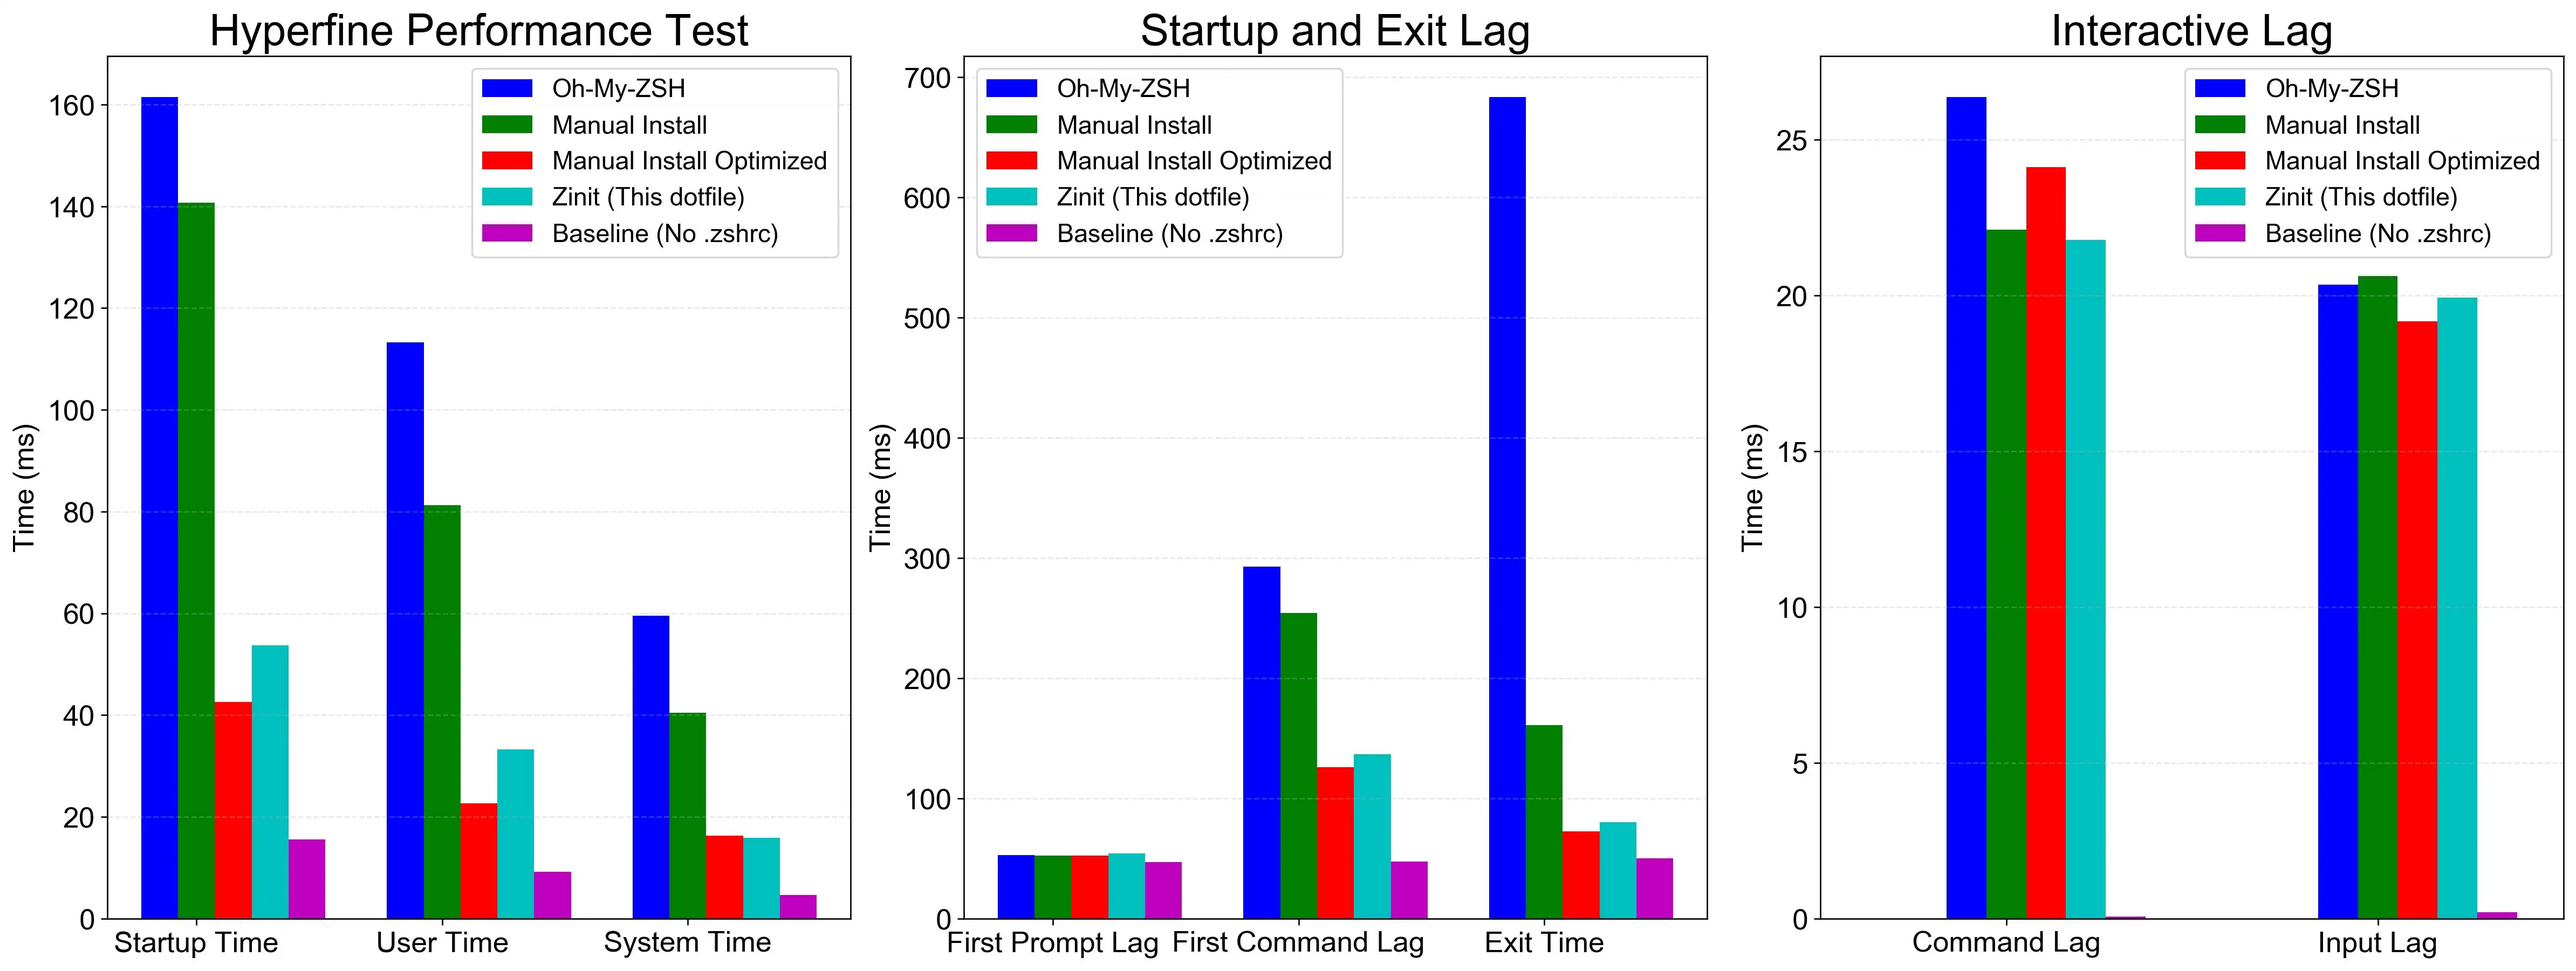
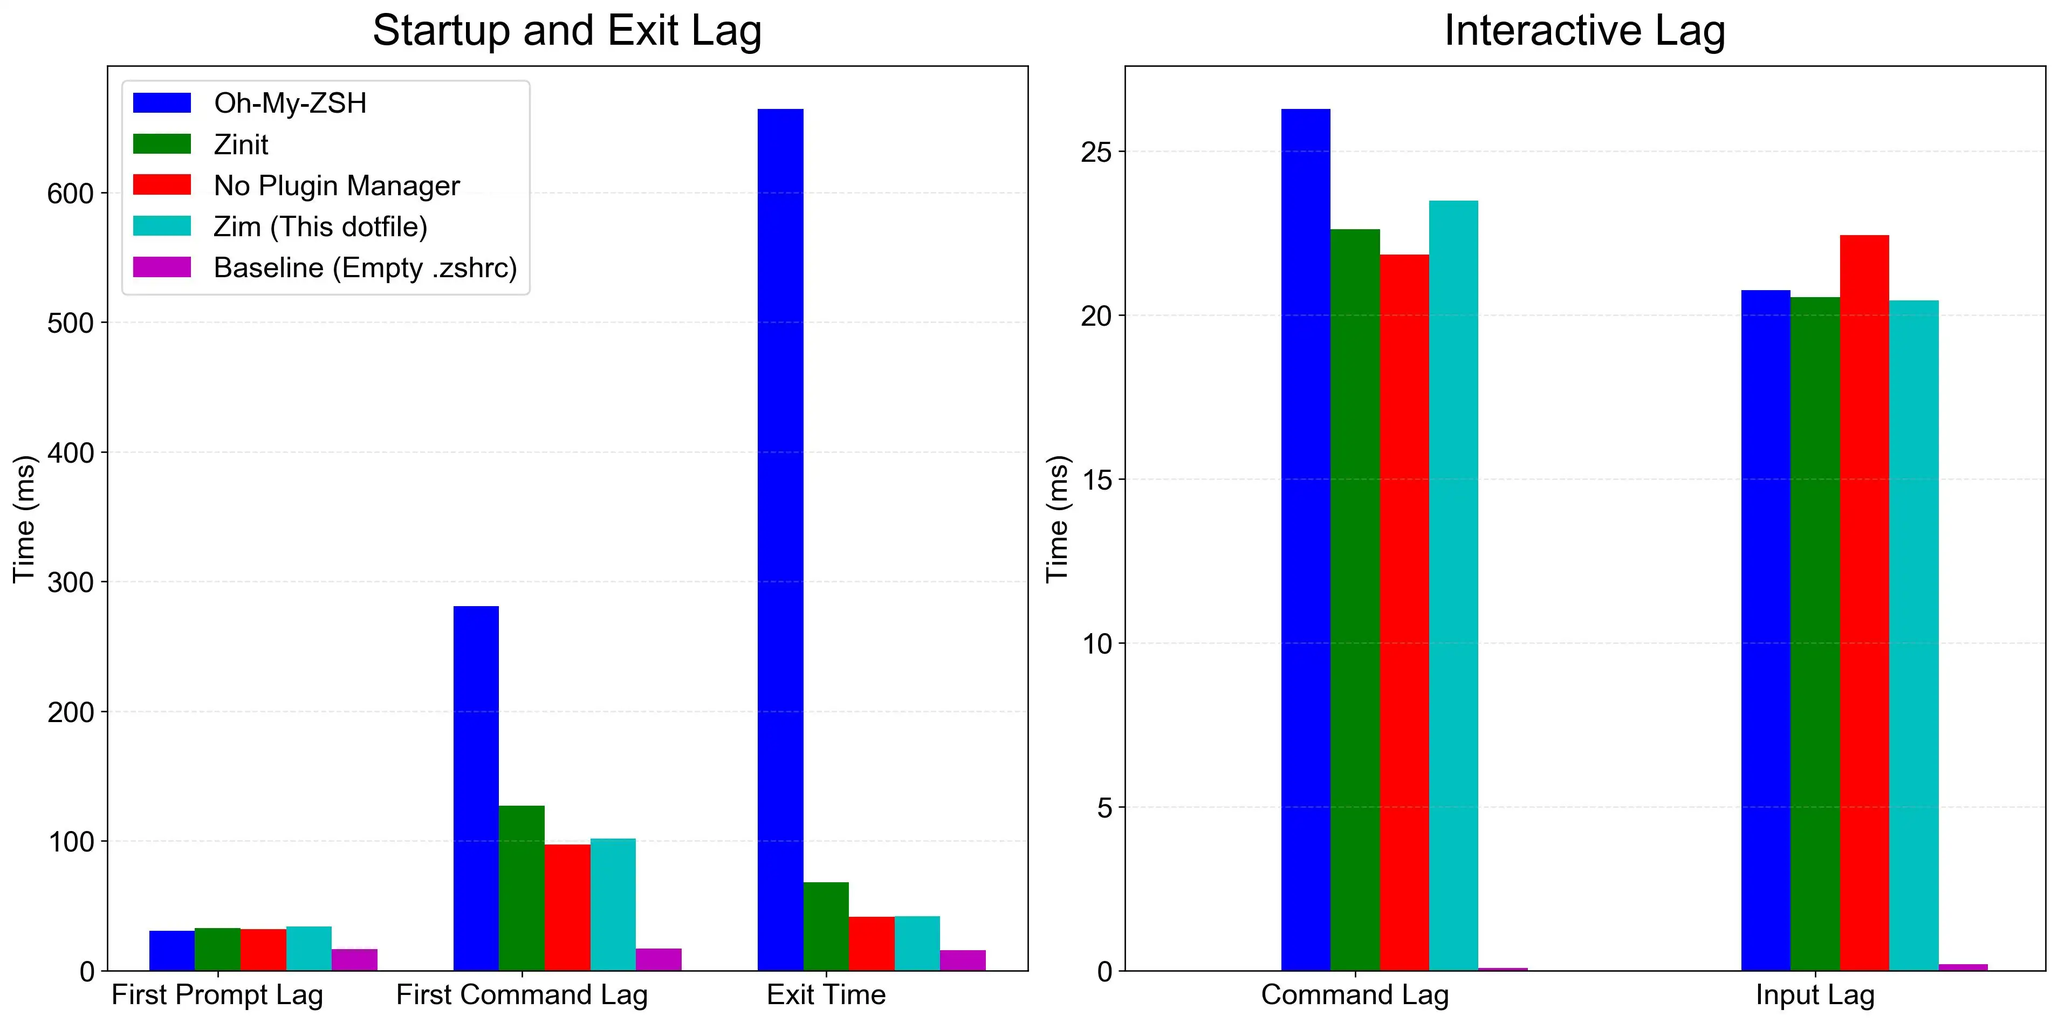
update benchmark and readme

diff --git a/.github/benchmark.py b/.github/benchmark.py
@@ -9,143 +9,123 @@ import subprocess
 import matplotlib.pyplot as plt
 import numpy as np
 
-FILE_NAME = '.github/benchmark'
+FILE_NAME = ".github/benchmark"
 FONT_SIZE_TITLE = 24
 FONT_SIZE_LABEL = 16
-FONT_SIZE_LEGEND = 14
+FONT_SIZE_LEGEND = 16
 FONT_SIZE_TICK = 16
 
-hyperfine_data = {
-    'Oh-My-ZSH': {
-        'mean_time_ms': 161.5,
-        'user_time_ms': 113.3,
-        'system_time_ms': 59.5
-    },
-    'Manual Install': {
-        'mean_time_ms': 140.7,
-        'user_time_ms': 81.2,
-        'system_time_ms': 40.5
-    },
-    'Manual Install Optimized': {
-        'mean_time_ms': 42.6,
-        'user_time_ms': 22.6,
-        'system_time_ms': 16.3
-    },
-    'Zinit (This dotfile)': {
-        'mean_time_ms': 53.7,
-        'user_time_ms': 33.2,
-        'system_time_ms': 15.9
-    },
-    'Baseline (No .zshrc)': {
-        'mean_time_ms': 15.5,
-        'user_time_ms': 9.2,
-        'system_time_ms': 4.6
-    }
-}
-
 bench_data = {
-    'Oh-My-ZSH': {
-        'first_prompt_lag_ms': 52.903,
-        'first_command_lag_ms': 292.837,
-        'command_lag_ms': 26.368,
-        'input_lag_ms': 20.349,
-        'exit_time_ms': 683.676
+    "Oh-My-ZSH": {
+        "mean_time_ms": 154.7,
+        "first_prompt_lag_ms": 30.448,
+        "first_command_lag_ms": 281.011,
+        "command_lag_ms": 26.284,
+        "input_lag_ms": 20.760,
+        "exit_time_ms": 664.233,
     },
-    'Manual Install': {
-        'first_prompt_lag_ms': 52.562,
-        'first_command_lag_ms': 254.041,
-        'command_lag_ms': 22.101,
-        'input_lag_ms': 20.617,
-        'exit_time_ms': 161.114
+    "Zinit": {
+        "mean_time_ms": 69.3,
+        "first_prompt_lag_ms": 32.772,
+        "first_command_lag_ms": 126.897,
+        "command_lag_ms": 22.626,
+        "input_lag_ms": 20.554,
+        "exit_time_ms": 67.867,
     },
-    'Manual Install Optimized': {
-        'first_prompt_lag_ms': 52.250,
-        'first_command_lag_ms': 125.783,
-        'command_lag_ms': 24.108,
-        'input_lag_ms': 19.161,
-        'exit_time_ms': 72.494
+    # "zcomet": {
+    #     "mean_time_ms": 50.7,
+    #     "first_prompt_lag_ms": 30.572,
+    #     "first_command_lag_ms": 102.524,
+    #     "command_lag_ms": 22.392,
+    #     "input_lag_ms": 19.663,
+    #     "exit_time_ms": 49.854,
+    # },
+    "No Plugin Manager": {
+        "mean_time_ms": 43.9,
+        "first_prompt_lag_ms": 31.999,
+        "first_command_lag_ms": 97.347,
+        "command_lag_ms": 21.838,
+        "input_lag_ms": 22.432,
+        "exit_time_ms": 41.402,
     },
-    'Zinit (This dotfile)': {
-        'first_prompt_lag_ms': 53.949,
-        'first_command_lag_ms': 136.484,
-        'command_lag_ms': 21.780,
-        'input_lag_ms': 19.924,
-        'exit_time_ms': 80.015
+    "Zim (This dotfile)": {
+        "mean_time_ms": 42.1,
+        "first_prompt_lag_ms": 34.035,
+        "first_command_lag_ms": 101.787,
+        "command_lag_ms": 23.496,
+        "input_lag_ms": 20.453,
+        "exit_time_ms": 41.789,
     },
-    'Baseline (No .zshrc)': {
-        'first_prompt_lag_ms': 47.158,
-        'first_command_lag_ms': 47.340,
-        'command_lag_ms': 0.066,
-        'input_lag_ms': 0.207,
-        'exit_time_ms': 50.048
-    }
+    "Baseline (Empty .zshrc)": {
+        "mean_time_ms": 11.1,
+        "first_prompt_lag_ms": 16.612,
+        "first_command_lag_ms": 16.776,
+        "command_lag_ms": 0.071,
+        "input_lag_ms": 0.199,
+        "exit_time_ms": 15.626,
+    },
 }
 
-# Get frameworks list from hyperfine_data keys to maintain order
-frameworks = list(hyperfine_data.keys())
+# Get frameworks list from bench_data keys to maintain order
+frameworks = list(bench_data.keys())
 NUM_FRAMEWORK = len(frameworks)
-
-plt.rcParams['font.sans-serif'] = ['Arial Unicode MS']
-plt.rcParams['axes.unicode_minus'] = False
-
-fig, axs = plt.subplots(1, 3, figsize=(20, 8))
-colors = ['b', 'g', 'r', 'c', 'm', 'y', 'k', 'w']
+plt.rcParams["font.sans-serif"] = ["Arial Unicode MS"]
+plt.rcParams["axes.unicode_minus"] = False
+fig, axs = plt.subplots(1, 2, figsize=(16, 8))
+colors = ["b", "g", "r", "c", "m", "y", "k", "w"]
 bar_width = 0.15
 
-metrics_hyper = [
-    ('Startup Time', [hyperfine_data[f]['mean_time_ms'] for f in frameworks]),
-    ('User Time', [hyperfine_data[f]['user_time_ms'] for f in frameworks]),
-    ('System Time', [hyperfine_data[f]['system_time_ms'] for f in frameworks])
-]
-x_h = np.arange(len(metrics_hyper))
-for i in range(NUM_FRAMEWORK):
-    values = [data[i] for _, data in metrics_hyper]
-    axs[0].bar(x_h + (i - 1)*bar_width, values, bar_width, label=frameworks[i], color=colors[i])
-axs[0].tick_params(labelsize=FONT_SIZE_TICK)
-axs[0].set_xticks(x_h)
-axs[0].set_xticklabels([m[0] for m in metrics_hyper], ha='center', fontsize=FONT_SIZE_LABEL)
-axs[0].set_title('Hyperfine Performance Test', fontsize=FONT_SIZE_TITLE)
-axs[0].set_ylabel('Time (ms)', fontsize=FONT_SIZE_LABEL)
-axs[0].grid(True, linestyle='--', alpha=0.3, axis='y')
-axs[0].legend(prop={'size': FONT_SIZE_LEGEND})
-
 metrics_bench_large = [
-    ('First Prompt Lag', [bench_data[f]['first_prompt_lag_ms'] for f in frameworks]),
-    ('First Command Lag', [bench_data[f]['first_command_lag_ms'] for f in frameworks]),
-    ('Exit Time', [bench_data[f]['exit_time_ms'] for f in frameworks])
+    ("First Prompt Lag", [bench_data[f]["first_prompt_lag_ms"] for f in frameworks]),
+    ("First Command Lag", [bench_data[f]["first_command_lag_ms"] for f in frameworks]),
+    ("Exit Time", [bench_data[f]["exit_time_ms"] for f in frameworks]),
 ]
 x_b_large = np.arange(len(metrics_bench_large))
 for i in range(NUM_FRAMEWORK):
     values = [data[i] for _, data in metrics_bench_large]
-    axs[1].bar(x_b_large + (i - 1)*bar_width, values, bar_width, label=frameworks[i], color=colors[i])
-axs[1].tick_params(labelsize=FONT_SIZE_TICK)
-axs[1].set_xticks(x_b_large)
-axs[1].set_xticklabels([m[0] for m in metrics_bench_large], ha='center', fontsize=FONT_SIZE_LABEL)
-axs[1].set_title('Startup and Exit Lag', fontsize=FONT_SIZE_TITLE)
-axs[1].set_ylabel('Time (ms)', fontsize=FONT_SIZE_LABEL)
-axs[1].grid(True, linestyle='--', alpha=0.3, axis='y')
-axs[1].legend(prop={'size': FONT_SIZE_LEGEND})
+    axs[0].bar(
+        x_b_large + (i - 1) * bar_width,
+        values,
+        bar_width,
+        label=frameworks[i],
+        color=colors[i],
+    )
+axs[0].tick_params(labelsize=FONT_SIZE_TICK)
+axs[0].set_xticks(x_b_large)
+axs[0].set_xticklabels(
+    [m[0] for m in metrics_bench_large], ha="center", fontsize=FONT_SIZE_LABEL
+)
+axs[0].set_title("Startup and Exit Lag", fontsize=FONT_SIZE_TITLE, pad=12)
+axs[0].set_ylabel("Time (ms)", fontsize=FONT_SIZE_LABEL)
+axs[0].grid(True, linestyle="--", alpha=0.3, axis="y")
+axs[0].legend(prop={"size": FONT_SIZE_LEGEND})
 
 metrics_bench_small = [
-    ('Command Lag', [bench_data[f]['command_lag_ms'] for f in frameworks]),
-    ('Input Lag', [bench_data[f]['input_lag_ms'] for f in frameworks])
+    ("Command Lag", [bench_data[f]["command_lag_ms"] for f in frameworks]),
+    ("Input Lag", [bench_data[f]["input_lag_ms"] for f in frameworks]),
 ]
 x_b_small = np.arange(len(metrics_bench_small))
 for i in range(NUM_FRAMEWORK):
     values = [data[i] for _, data in metrics_bench_small]
-    axs[2].bar(x_b_small + (i - 1)*bar_width/1.4, values, bar_width/1.4, label=frameworks[i], color=colors[i])
-axs[2].tick_params(labelsize=FONT_SIZE_TICK)
-axs[2].set_xlim(-0.5, len(metrics_bench_small) - 0.5)
-axs[2].set_xticks(x_b_small)
-axs[2].set_xticklabels([m[0] for m in metrics_bench_small], ha='center', fontsize=FONT_SIZE_LABEL)
-axs[2].set_title('Interactive Lag', fontsize=FONT_SIZE_TITLE)
-axs[2].set_ylabel('Time (ms)', fontsize=FONT_SIZE_LABEL)
-axs[2].grid(True, linestyle='--', alpha=0.3, axis='y')
-axs[2].legend(prop={'size': FONT_SIZE_LEGEND})
+    axs[1].bar(
+        x_b_small + (i - 1) * bar_width / 1.4,
+        values,
+        bar_width / 1.4,
+        label=frameworks[i],
+        color=colors[i],
+    )
+axs[1].tick_params(labelsize=FONT_SIZE_TICK)
+axs[1].set_xlim(-0.5, len(metrics_bench_small) - 0.5)
+axs[1].set_xticks(x_b_small)
+axs[1].set_xticklabels(
+    [m[0] for m in metrics_bench_small], ha="center", fontsize=FONT_SIZE_LABEL
+)
+axs[1].set_title("Interactive Lag", fontsize=FONT_SIZE_TITLE, pad=12)
+axs[1].set_ylabel("Time (ms)", fontsize=FONT_SIZE_LABEL)
+axs[1].grid(True, linestyle="--", alpha=0.3, axis="y")
 
-# fig.suptitle('ZSH Configuration Frameworks Performance Test', fontsize=16, y=0.98)
-plt.tight_layout(rect=[0, 0, 1, 0.95])
-plt.savefig(FILE_NAME+'.jpg', dpi=240, bbox_inches='tight')
-subprocess.run(['magick', f'{FILE_NAME}.jpg', '-quality', '60', f'{FILE_NAME}.webp'])
-subprocess.run(['rm', '-f', f'{FILE_NAME}.jpg'])
+plt.tight_layout()
+plt.savefig(FILE_NAME + ".jpg", dpi=240, bbox_inches="tight")
+subprocess.run(["magick", f"{FILE_NAME}.jpg", "-quality", "60", f"{FILE_NAME}.webp"])
+subprocess.run(["rm", "-f", f"{FILE_NAME}.jpg"])
 plt.close()

diff --git a/README.md b/README.md
@@ -1,22 +1,20 @@
 # An EXTREME FAST Zsh Dotfile
 
-Featured by speed, no compromises.
+Featured by speed, no compromise.
 
 ![demo](.github/dotfiles-demo.webp "demo")
 
 ## 速度
 
-使用 shell 的專門測試腳本 [zsh-bench](https://github.com/romkatv/zsh-bench/) 和直觀易懂的 hyperfine 進行測試[^test-method]，測試項目涵蓋五個常見框架：
+使用專門測試 shell 的 [zsh-bench](https://github.com/romkatv/zsh-bench/) 和直觀易懂的 hyperfine 進行測試[^test-method]，測試項目涵蓋五種框架：
 
-[^test-method]: 測試執行於 M1 MacBook Pro 8G RAM，zsh-bench 使用預設值，hyperfine 使用 `hyperfine --runs 100 --warmup 3 'zsh -i -c exit 0'` 測試。所有框架的插件都相同只有 `Manual Install` 沒載入 git/docker 插件，因為加上後就會慢到受不了（因為這兩個插件需要是基於 oh-my-zsh，想要使用就需要額外初始化 oh-my-zsh 會嚴重影響速度）。
-
-- Oh-My-ZSH: 使用 Oh-My-ZSH 加上 zsh-defer 優化
-- Manual Install: 手動安裝無優化
-- Manual Install Optimized: 手動安裝加上 zsh-defer 優化
-- Zinit: 本份 dotfile
+- Oh-My-ZSH: 最多人使用的框架並且加上 zsh-defer 優化
+- Zinit: 講求效能的插件管理器
+- No Plugin Manager: 不使用插件管理器以減少延遲，並且使用 zsh-defer 優化
+- Zim: 此份 dotfile
 - Baseline: 基準線，移除 .zshrc，本機能達到的最快速度
 
-從最廣泛使用的框架到手動優化以及作為基準線的空白 zshrc，測試項目這樣選擇的原因是為了能和絕大多數人的設定比較，並且藉由不同優化程度的設定檔藉此準確的定位效能。
+測試項目的選擇從最廣泛使用的框架到手動優化，以便準確定位效能，可以看到基本上追平甚至超越不使用插件管理器的速度。
 
 <p align="center">
   <img src=".github/benchmark.webp" width="95%" height="95%" alt="benchmark">
@@ -27,9 +25,11 @@ Featured by speed, no compromises.
 > - 為何不用 antidote?  
 > 有太多 anti* 的插件管理器了，而且他正好在換代中
 > - 為何不用 zsh4humans?  
-z4h [如圖所示](https://github.com/zimfw/zimfw/wiki/Speed) 是最快的插件管理器，但是我不需要一個強迫我用 p10k、設定混亂而且會覆蓋我 zshrc 的插件管理器，如果沒有這些問題他會是完美的
+> z4h [是最快的插件管理器](https://github.com/zimfw/zimfw/wiki/Speed)，但是我不想要一個強迫使用 p10k、設定混亂、會覆蓋我 zshrc 的插件管理器，如果沒有這些問題他會是完美的
 > - 繪製自己的測試結果：將數據更新在 .github/benchmark.py 後使用 `uv run .github/benchmark.py` 可以直接執行不需建立虛擬環境。
 > - 找出效能瓶頸：使用我的[腳本](https://gist.github.com/ZhenShuo2021/be33f28acc0e818ecc532a432af08ee5)來可視化效能瓶頸。
+
+[^test-method]: 測試執行於 M1 MacBook Pro 8G RAM，zsh-bench 使用預設值，hyperfine 使用 `hyperfine --runs 100 --warmup 3 'zsh -i -c exit 0'` 測試，測試總共載入的插件有 zsh-defer, zsh-syntax-highlighting, zsh-autosuggestions, zsh-completions, zsh-z, docker, docker-compose, extract, git。
 
 ## 特色
 
@@ -68,7 +68,7 @@ z4h [如圖所示](https://github.com/zimfw/zimfw/wiki/Speed) 是最快的插件
 ## 安裝
 
 ```shell
-ASK=1 sh -c "$(curl -fsSL https://raw.githubusercontent.com/ZhenShuo2021/dotfiles/chezmoi/remote_install.sh) -k -v"
+ASK=1 sh -c "$(curl -fsSL https://raw.githubusercontent.com/ZhenShuo2021/dotfiles/main/remote_install.sh) -k -v"
 ```
 
 首次執行不會完整安裝，因為 GPG 等需要進一步設定，移除 `ASK=1` 會使用預設名稱作為電腦和用戶名，再次執行 `chezmoi -k apply` 可以進行後續部分的安裝。
@@ -82,11 +82,13 @@ chezmoi cd
 - 應用設定檔，環境變數可選  
 ASK=1 SETPASS=1 chezmoi init --apply
 
-## 最簡模式
+## 最簡安裝
 
-最簡模式只會複製 .zshrc/.zshenv 不會修改其餘任何設定，第一個問題輸入 T/F 選擇是否啟用。
+最簡安裝只會修改 shell 設定不會進行任何額外安裝，在第一個問題輸入 T/F 選擇是否啟用。
 
 ## 修改
+
+zshrc 相關設定在 `~/.local/share/chezmoi/home/private_dot_config/zsh` 中，由以下組成
 
 1. 01-preference.zsh: 各種路徑和常數設定
 2. 02-cm-config.zsh: 由 chezmoi 載入的設定
@@ -423,5 +425,6 @@ end
 
 # Acknowledgments
 
-- Code is based on [narze's dotfiles (MIT License)](https://github.com/narze/dotfiles)
-- Snippets from [Holman's dotfiles (MIT License)](https://github.com/holman/dotfiles), [mathiasbynens (MIT License)](https://github.com/mathiasbynens/dotfiles)
+- Code is based on [narze's dotfile (MIT License)](https://github.com/narze/dotfiles)
+- Snippets from [Holman's dotfile (MIT License)](https://github.com/holman/dotfiles), [mathiasbynens (MIT License)](https://github.com/mathiasbynens/dotfiles)
+- The idea of modularization comes from [xero's dotfile](https://github.com/xero/dotfiles/tree/main/zsh/.config/zsh)
